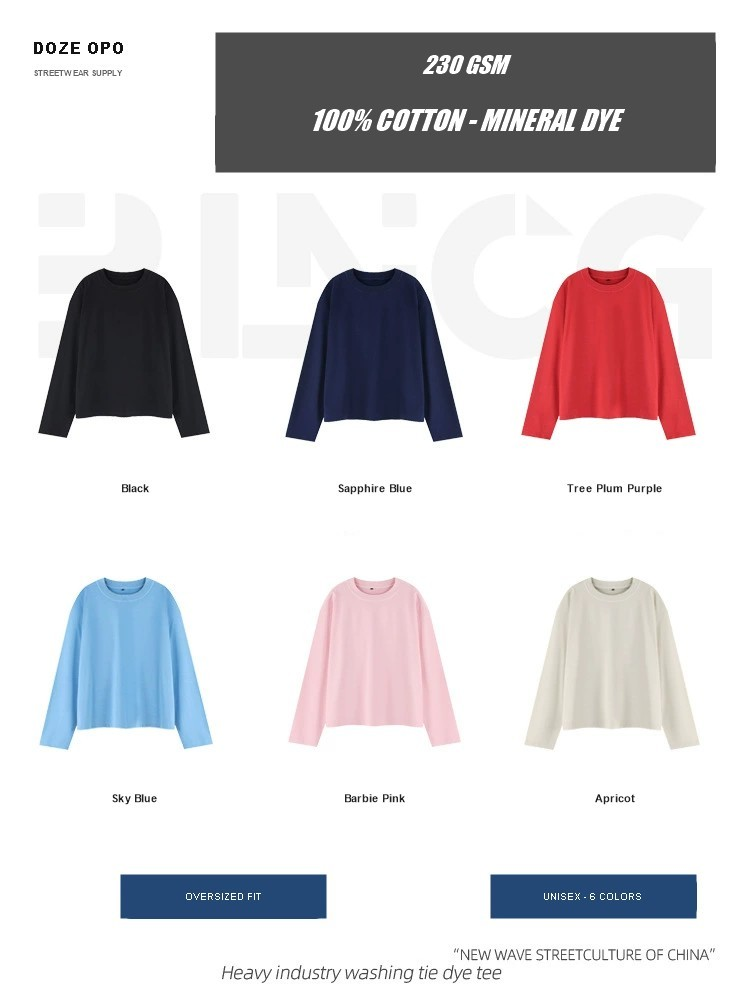
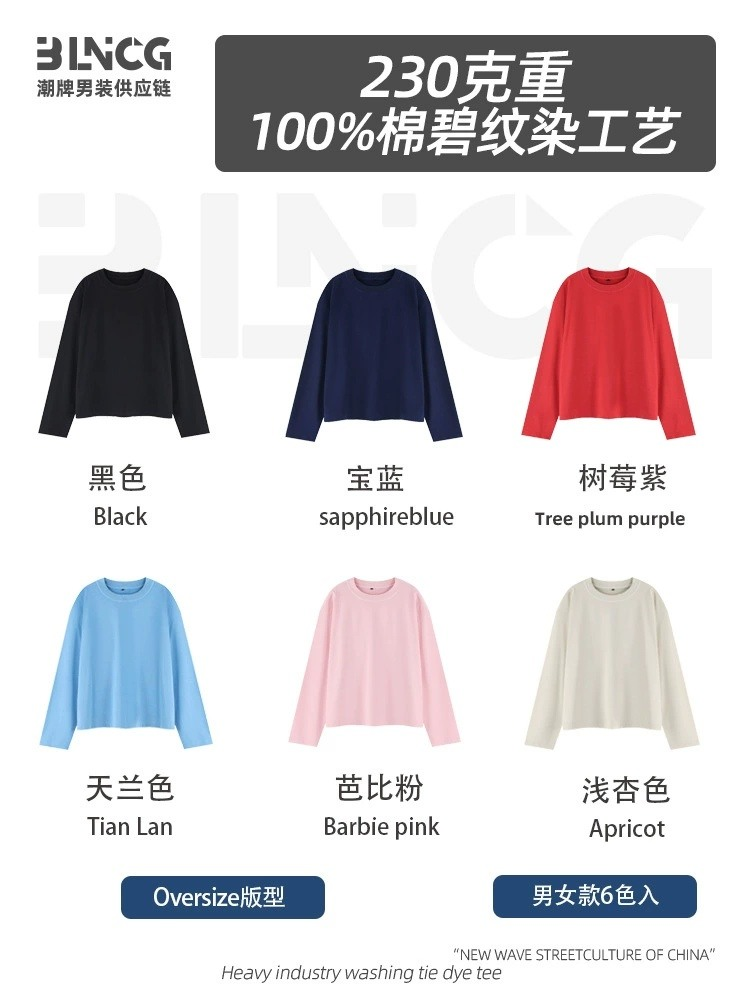
feat(product): add complete T230 230G mineral-washed tee with 6 authentic SKUs, factory MT-2651 size chart, and craft details

diff --git a/app.js b/app.js
@@ -1055,6 +1055,96 @@ function renderDynamicLookbook(prod) {
         <small class="pdp-table-tip">Note: 3.2cm heavy ribbed collar &amp; 1x1 fitted cuffs. Pre-shrunk compact double-yarn cotton. Flat measurement tolerance ±1-2cm.</small>
       </div>
     `;
+  } else if (prod.id === 'T230') {
+    sizeGuideHtml = `
+      <div class="pdp-size-tables-card t040-size-card">
+        <div class="table-header">
+          <span class="table-tag">OFFICIAL TECH SIZING &amp; TRY-ON</span>
+          <h4>T230 230G Mineral-Washed Long-Sleeve Street Tee - Sizing &amp; Measurement Guide</h4>
+        </div>
+
+        <!-- Model Try-On Card -->
+        <div class="t040-models-badge-row">
+          <div class="model-stat-pill">
+            <span class="m-avatar">👨</span>
+            <div class="m-info">
+              <strong>Male Model (Washed Black)</strong>
+              <small>184cm / 74kg · Wearing XL · Relaxed Baggy Street Fit</small>
+            </div>
+          </div>
+          <div class="model-stat-pill">
+            <span class="m-avatar">👩</span>
+            <div class="m-info">
+              <strong>Female Model (Apricot)</strong>
+              <small>168cm / 50kg · Wearing L · Oversized Drop Fit</small>
+            </div>
+          </div>
+        </div>
+
+        <!-- Garment Measurements Table -->
+        <h5 class="sub-table-title">📏 Garment Dimensions (Flat Measurement / cm &amp; in)</h5>
+        <div class="pdp-table-wrap">
+          <table class="pdp-spec-table">
+            <thead>
+              <tr>
+                <th>Size</th>
+                <th>Length (衣长)</th>
+                <th>Chest (胸围)</th>
+                <th>Shoulder (肩宽)</th>
+                <th>Sleeve (袖长)</th>
+                <th>Fit Profile</th>
+              </tr>
+            </thead>
+            <tbody>
+              <tr><td><strong>S</strong></td><td>62 cm (24.4")</td><td>122 cm (48.0")</td><td>51.5 cm (20.3")</td><td>59 cm (23.2")</td><td>Natural Drop Shoulder</td></tr>
+              <tr><td><strong>M</strong></td><td>64 cm (25.2")</td><td>126 cm (49.6")</td><td>53.0 cm (20.9")</td><td>60 cm (23.6")</td><td>Boxy Drop Shoulder</td></tr>
+              <tr><td><strong>L</strong></td><td>66 cm (26.0")</td><td>130 cm (51.2")</td><td>54.5 cm (21.5")</td><td>61 cm (24.0")</td><td>Authentic Oversized</td></tr>
+              <tr class="highlight-row"><td><strong>XL</strong></td><td>68 cm (26.8")</td><td>134 cm (52.8")</td><td>56.0 cm (22.0")</td><td>62 cm (24.4")</td><td>Vintage Baggy Streetwear (Featured)</td></tr>
+              <tr><td><strong>2XL</strong></td><td>70 cm (27.6")</td><td>138 cm (54.3")</td><td>57.5 cm (22.6")</td><td>63 cm (24.8")</td><td>Max Plus Size Loose</td></tr>
+            </tbody>
+          </table>
+        </div>
+
+        <!-- Height & Weight Recommended Fit Table -->
+        <h5 class="sub-table-title">⚖ Height &amp; Weight Recommendations (建议尺码)</h5>
+        <div class="pdp-table-wrap">
+          <table class="pdp-spec-table">
+            <thead>
+              <tr>
+                <th>Size</th>
+                <th>Suggested Height</th>
+                <th>Suggested Weight</th>
+                <th>Fit Silhouette</th>
+              </tr>
+            </thead>
+            <tbody>
+              <tr><td><strong>S</strong></td><td>160 - 165 cm</td><td>45 - 55 kg (99-121 lbs)</td><td>Natural Drop Shoulder</td></tr>
+              <tr><td><strong>M</strong></td><td>165 - 170 cm</td><td>55 - 65 kg (121-143 lbs)</td><td>Boxy Drop Shoulder</td></tr>
+              <tr><td><strong>L</strong></td><td>170 - 175 cm</td><td>65 - 75 kg (143-165 lbs)</td><td>Authentic Oversized</td></tr>
+              <tr class="highlight-row"><td><strong>XL</strong></td><td>175 - 180 cm</td><td>75 - 85 kg (165-187 lbs)</td><td>Vintage Baggy Drape (Featured)</td></tr>
+              <tr><td><strong>2XL</strong></td><td>180+ cm</td><td>85 - 100 kg (187-220 lbs)</td><td>Max Plus Size Loose</td></tr>
+            </tbody>
+          </table>
+        </div>
+
+        <!-- Visual Size Chart Image Cards -->
+        <div class="t040-size-graphics-strip">
+          <a class="size-graphic-thumb" href="assets/products/T230/size/size_chart_garment.jpg" target="_blank">
+            <img src="assets/products/T230/size/size_chart_garment.jpg" alt="T230 Garment Size Chart &amp; Measurements" loading="lazy">
+            <span>🔍 View Original Measurement Chart</span>
+          </a>
+          <a class="size-graphic-thumb" href="assets/products/T230/size/size_chart_recommend.jpg" target="_blank">
+            <img src="assets/products/T230/size/size_chart_recommend.jpg" alt="T230 Height &amp; Weight Recommendations" loading="lazy">
+            <span>🔍 View Height &amp; Weight Guide</span>
+          </a>
+          <a class="size-graphic-thumb" href="assets/products/T230/size/size_chart_factory.jpg" target="_blank">
+            <img src="assets/products/T230/size/size_chart_factory.jpg" alt="T230 Factory MT-2651 Spec Card" loading="lazy">
+            <span>🔍 View Factory Spec Card</span>
+          </a>
+        </div>
+        <small class="pdp-table-tip">Note: Official factory MT-2651 specifications. Flat measurement tolerance within ±1-2cm. Pre-shrunk 100% combed cotton jersey.</small>
+      </div>
+    `;
   } else if (prod.category === 'pants') {
     sizeGuideHtml = `
       <div class="pdp-size-tables-card">
@@ -1414,6 +1504,45 @@ function renderDynamicLookbook(prod) {
       'assets/products/T276/editorial/model_15.jpg',
       'assets/products/T276/editorial/model_16.jpg'
     ];
+  } else if (prod.id === 'T230') {
+    const craftDetails = [
+      { img: 'assets/products/T230/detail/detail_1.jpg', title: '01 领口压条', desc: 'Double-Stitched Ribbed Collar & Bound Back Taping' },
+      { img: 'assets/products/T230/detail/detail_2.jpg', title: '02 袖口精密双针', desc: 'Precision Twin-Needle Hem & Cuff Lockstitching' },
+      { img: 'assets/products/T230/detail/detail_3.jpg', title: '03 炒雪花碧纹染', desc: '21S Artisanal Mineral Dye & Vintage Snow Acid Wash Technique' },
+      { img: 'assets/products/T230/detail/detail_4.jpg', title: '04 230G重磅纯棉', desc: '230 GSM 100% Combed Compact Cotton Jersey Weave' },
+      { img: 'assets/products/T230/detail/detail_5.jpg', title: '05 街头落肩剪裁', desc: 'Relaxed Drop-Shoulder Silhouette & Natural Drape' },
+      { img: 'assets/products/T230/detail/detail_6.jpg', title: '06 原厂技术规格', desc: 'Factory MT-2651 Production Spec & Certification Standard' }
+    ];
+
+    extraCraftHtml = `
+      <div class="pdp-size-tables-card t040-craft-card">
+        <div class="table-header">
+          <span class="table-tag">FACTORY CRAFTSMANSHIP</span>
+          <h4>Product Details &amp; Macro Fabric Craft (6 Core Specs)</h4>
+          <p style="font-size: 11px; color: #64748b; margin-top: 3px;">230 GSM combed cotton, artisanal mineral acid snow wash, bound collar taping</p>
+        </div>
+        <div class="macro-craft-grid">
+          ${craftDetails.map(c => `
+            <div class="macro-craft-item">
+              <img src="${c.img}" alt="${c.title}" loading="lazy">
+              <div class="macro-craft-caption">
+                <strong>${c.title}</strong>
+                <small>${c.desc}</small>
+              </div>
+            </div>
+          `).join('')}
+        </div>
+      </div>
+    `;
+
+    lookbookImages = [
+      'assets/products/T230/main/1.jpg',
+      'assets/products/T230/main/2.jpg',
+      'assets/products/T230/main/3.jpg',
+      'assets/products/T230/main/4.jpg',
+      'assets/products/T230/main/5.jpg',
+      'assets/products/T230/main/6.jpg'
+    ];
   }
 
   const imagesHtml = lookbookImages.map((src, i) => `
@@ -1433,15 +1562,15 @@ function renderDynamicLookbook(prod) {
     <!-- Size Guide Card -->
     ${sizeGuideHtml}
 
-    <!-- Extra Craft Details for T040, T235, T238, T275 & T276 -->
+    <!-- Extra Craft Details for T040, T230, T235, T238, T275 & T276 -->
     ${extraCraftHtml}
 
     <!-- Editorial Lookbook Gallery -->
     <div class="pdp-editorial-gallery">
       <div class="gallery-title-box">
         <span class="g-tag">LOOKBOOK GALLERY</span>
-        <h3>${(prod.id === 'T040' || prod.id === 'T235' || prod.id === 'T238' || prod.id === 'T275' || prod.id === 'T276') ? 'Editorial Street Lookbook (16 Shots)' : 'Product Details &amp; Macro Fabric Craft'}</h3>
-        <p>${(prod.id === 'T040' || prod.id === 'T235' || prod.id === 'T238' || prod.id === 'T275' || prod.id === 'T276') ? 'Full Streetwear Outfit On-Model Demonstrations &amp; Colorway Silhouettes' : 'High-density weave, reinforced seams, and colorfast reactive dye detail'}</p>
+        <h3>${(prod.id === 'T040' || prod.id === 'T230' || prod.id === 'T235' || prod.id === 'T238' || prod.id === 'T275' || prod.id === 'T276') ? (prod.id === 'T230' ? 'Product Gallery &amp; Detail Overview' : 'Editorial Street Lookbook (16 Shots)') : 'Product Details &amp; Macro Fabric Craft'}</h3>
+        <p>${(prod.id === 'T040' || prod.id === 'T230' || prod.id === 'T235' || prod.id === 'T238' || prod.id === 'T275' || prod.id === 'T276') ? 'Full Streetwear Outfit On-Model Demonstrations &amp; Colorway Silhouettes' : 'High-density weave, reinforced seams, and colorfast reactive dye detail'}</p>
       </div>
       ${imagesHtml}
     </div>

diff --git a/products_data.js b/products_data.js
@@ -1716,55 +1716,60 @@
                  "img":  "assets/products/T230/main/1.jpg",
                  "color":  "6 Mineral Wash Colorways",
                  "specs":  [
-                               "230 GSM 100% Combed Cotton 21S Single Jersey Knit",
-                               "Artisanal Mineral Dye \u0026 Vintage Snow Acid Wash Technique",
-                               "Relaxed Drop-Shoulder Long-Sleeve Silhouette",
-                               "Double-Stitched Ribbed Collar \u0026 Pre-shrunk Fabric (\u003c 2%)",
-                               "6 Streetwear Colorways - 1-Piece Sample Order Ready"
+                               "230 GSM 100% Combed Cotton 21S Single Jersey Knit (Pre-Shrunk \u003c 2%)",
+                               "Artisanal Mineral Dye \u0026 Vintage Snow Acid Tie-Dye Technique (碧纹染工艺)",
+                               "Relaxed Drop-Shoulder Long-Sleeve Boxy Silhouette (Factory Code: MT-2651)",
+                               "Double-Stitched Ribbed Collar \u0026 Clean Collar-to-Shoulder Bound Back Taping",
+                               "6 Authentic Washed Colorways · S-2XL Full Size Range · 1-PC Sample Order Ready"
                            ],
                  "gallery":  [
                                  "assets/products/T230/main/1.jpg",
                                  "assets/products/T230/main/2.jpg",
                                  "assets/products/T230/main/3.jpg",
-                                 "assets/products/T230/main/4.jpg"
+                                 "assets/products/T230/main/4.jpg",
+                                 "assets/products/T230/main/5.jpg",
+                                 "assets/products/T230/main/6.jpg"
                              ],
                  "skus":  [
                               {
-                                  "name":  "Washed Black",
+                                  "name":  "Washed Black (黑色)",
                                   "thumb":  "assets/products/T230/sku/sku_1.jpg",
                                   "hero":  "assets/products/T230/sku/sku_1.jpg"
                               },
                               {
-                                  "name":  "Sapphire Blue",
+                                  "name":  "Sapphire Blue (宝蓝)",
                                   "thumb":  "assets/products/T230/sku/sku_2.jpg",
                                   "hero":  "assets/products/T230/sku/sku_2.jpg"
                               },
                               {
-                                  "name":  "Tree Plum Purple",
+                                  "name":  "Tree Plum Purple (树莓紫)",
                                   "thumb":  "assets/products/T230/sku/sku_3.jpg",
                                   "hero":  "assets/products/T230/sku/sku_3.jpg"
                               },
                               {
-                                  "name":  "Sky Blue",
+                                  "name":  "Sky Blue (天蓝)",
                                   "thumb":  "assets/products/T230/sku/sku_4.jpg",
                                   "hero":  "assets/products/T230/sku/sku_4.jpg"
                               },
                               {
-                                  "name":  "Barbie Pink",
+                                  "name":  "Barbie Pink (芭比粉)",
                                   "thumb":  "assets/products/T230/sku/sku_5.jpg",
                                   "hero":  "assets/products/T230/sku/sku_5.jpg"
                               },
                               {
-                                  "name":  "Apricot",
+                                  "name":  "Apricot (浅杏色)",
                                   "thumb":  "assets/products/T230/sku/sku_6.jpg",
-                                  "hero":  "assets/products/T230/sku/sku_6.jpg"
+                                  "hero":  "assets/products/T230/sku/sku_6.jpg",
+                                  "back":  "assets/products/T230/sku/sku_6_back.jpg"
                               }
                           ],
                  "detailImages":  [
-                                      "assets/products/T230/detail/1.jpg",
-                                      "assets/products/T230/detail/2.jpg",
-                                      "assets/products/T230/detail/3.jpg",
-                                      "assets/products/T230/detail/4.jpg"
+                                      "assets/products/T230/detail/detail_1.jpg",
+                                      "assets/products/T230/detail/detail_2.jpg",
+                                      "assets/products/T230/detail/detail_3.jpg",
+                                      "assets/products/T230/detail/detail_4.jpg",
+                                      "assets/products/T230/detail/detail_5.jpg",
+                                      "assets/products/T230/detail/detail_6.jpg"
                                   ]
              },
     "T250":  {

diff --git a/index.html b/index.html
@@ -8,7 +8,7 @@
   <link rel="preconnect" href="https://fonts.googleapis.com">
   <link rel="preconnect" href="https://fonts.gstatic.com" crossorigin>
   <link href="https://fonts.googleapis.com/css2?family=Plus+Jakarta+Sans:wght@400;500;600;700;800&display=swap" rel="stylesheet">
-  <link rel="stylesheet" href="styles.css?v=45">
+  <link rel="stylesheet" href="styles.css?v=46">
 </head>
 <body class="theme-light">
   <!-- Mobile Viewport Wrapper (Native Fullscreen Mobile View) -->
@@ -1069,7 +1069,7 @@
   <!-- Floating Toast Notification -->
   <div class="app-toast" id="appToast">Notification</div>
 
-  <script src="products_data.js?v=45"></script>
-  <script src="app.js?v=45"></script>
+  <script src="products_data.js?v=46"></script>
+  <script src="app.js?v=46"></script>
 </body>
 </html>
